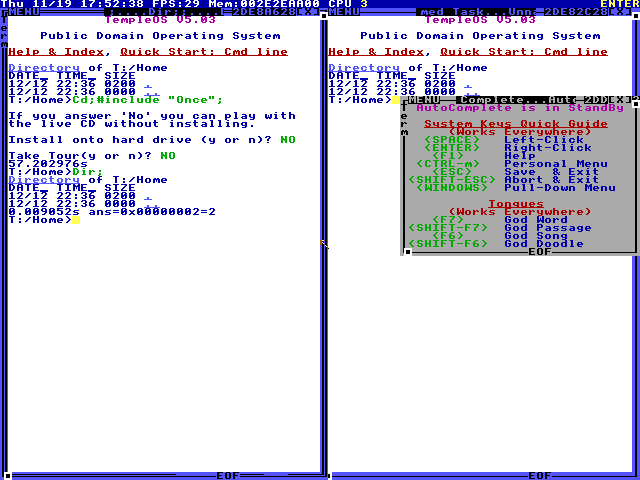
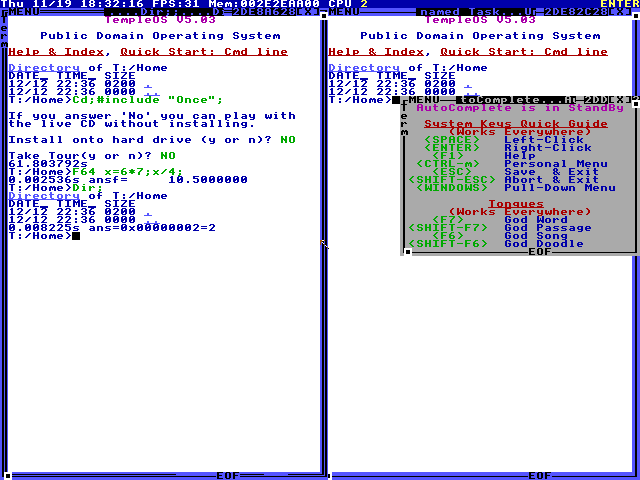
Hero recording; data in the code heap is not lifted
A string the compiler placed in the code heap was recorded with the blocks
around it; it has no entry points, so gen.py now leaves it out (an empty
entry table also stopped MSVC).

diff --git a/tools/gen.py b/tools/gen.py
@@ -124,6 +124,9 @@ def main():
                 seeds.add(v)
         seeds |= {a for a in seeds_all if base <= a < base + len(rimg)}
         funcs, bad = discover.discover(rimg, base, seeds, dyn, names)
+        if 'blob' in r and not funcs:
+            r['dup'] = True     # data the compiler put in the code heap (strings): nothing to lift
+            continue
         if 'blob' in r:
             # Compiler output: one file, immediates and displacements read from
             # the block itself (dyn_imm), keyed by its bytes with exactly those

diff --git a/README.md b/README.md
@@ -11,10 +11,13 @@ more than a decade. This project takes the system exactly as he shipped it in
 its final release, V5.03, and translates its machine code to C so that it can
 keep running on modern machines.
 
+![TempleOS V5.03 running lifted to C: the boot questions, a HolyC expression and Dir at the shell, then Squirt](docs/screenshots/hero.gif)
+
 ![The Adam desktop of TempleOS V5.03, running lifted to C](docs/screenshots/desktop.png)
 
 *The Adam desktop after StartOS: the boot questions answered from the keyboard
-and `Dir;` run at the shell. Every instruction on screen is TempleOS's own code,
+a HolyC expression (`F64 x=6*7;x/4;`) and `Dir;` run at
+the shell. Every instruction on screen is TempleOS's own code,
 translated ahead of time; the boot screen it starts from is in
 `docs/screenshots/first-light.png`.*
 
